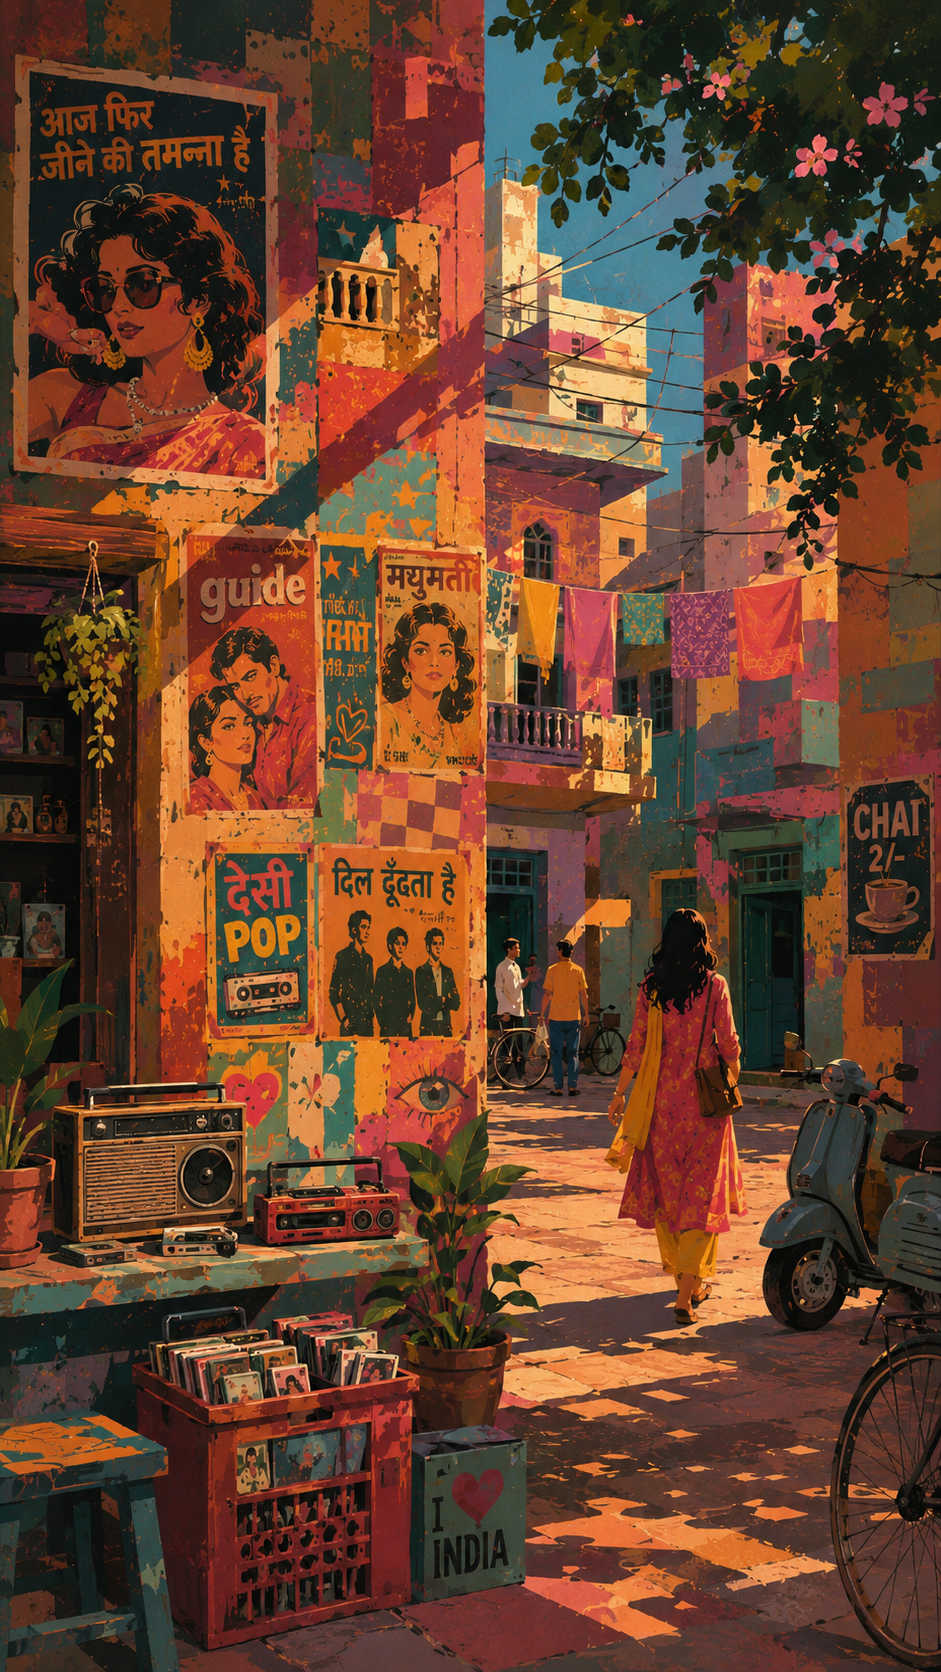
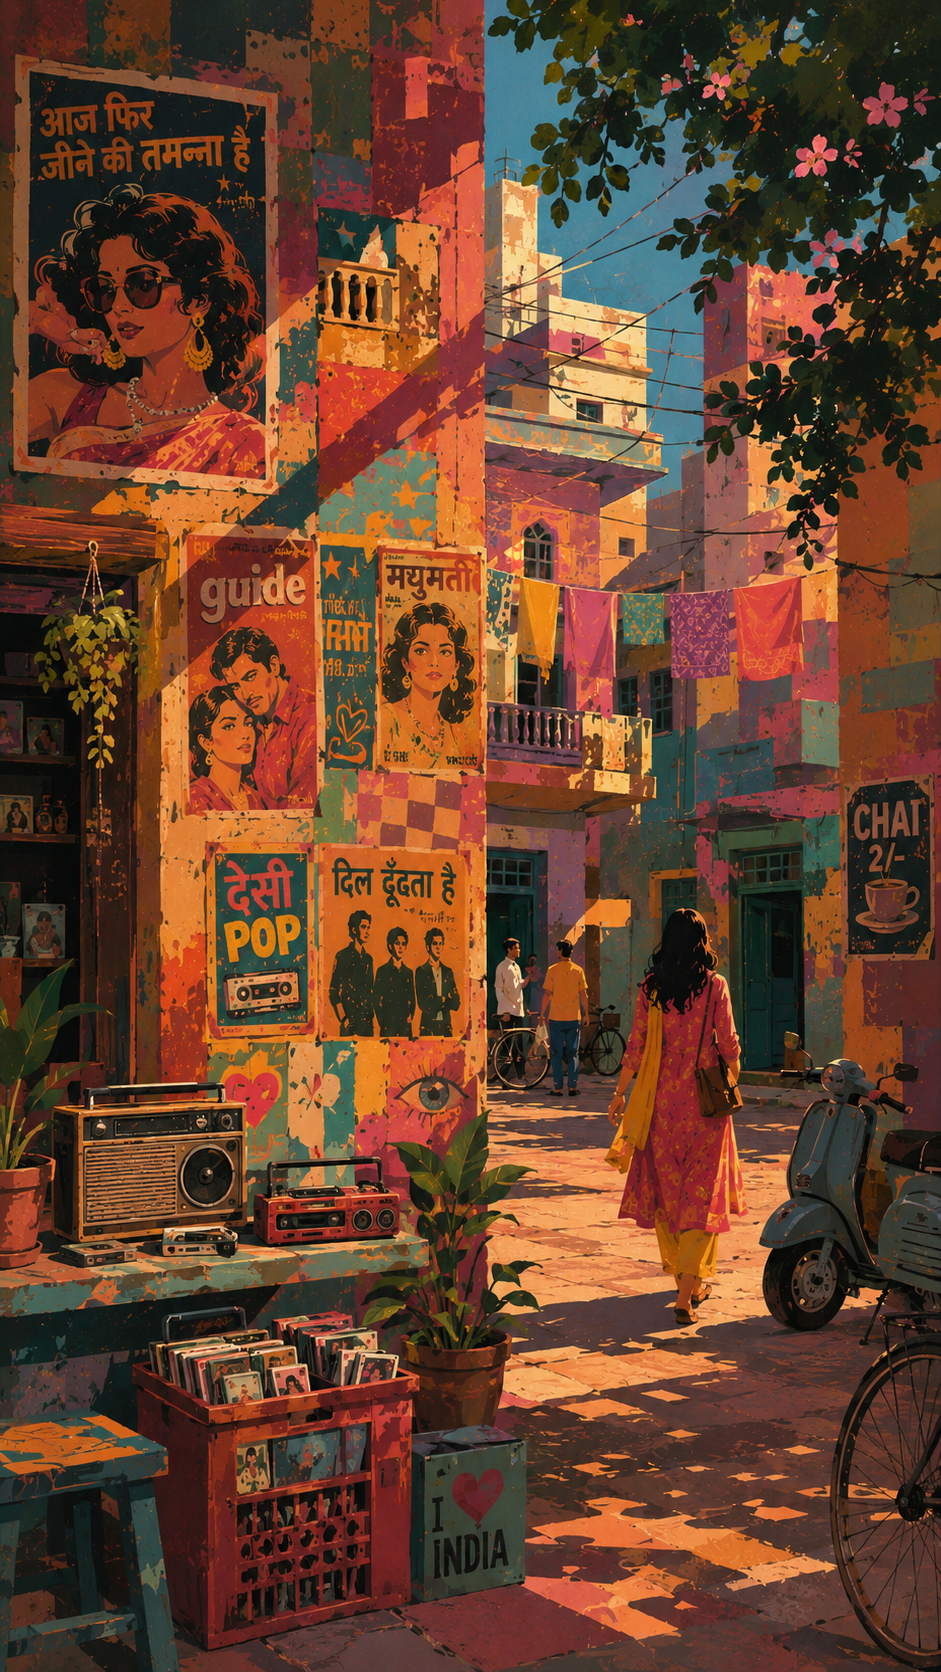
Update Shor & Studio

Changed region(s): [[0.4931, 0.2799, 0.6472, 0.3732]]

diff --git a/app/components/Player.tsx b/app/components/Player.tsx
@@ -33,21 +33,16 @@ const SHOR_TRACKS: Track[] = [
     title: "Sahiba",
     artist: "Shashwat Sachdev · Romy · Pawni Pandey",
   },
-  {
-    id: "7G5wpuR61ABrT7R1snos7C",
-    title: "Kalank – Title Track",
-    artist: "Pritam · Arijit Singh",
-  },
-  {
-    id: "6hVq4MGBhPIniEmpGbJIWR",
-    title: "Hardum Humdum",
-    artist: "Pritam · Arijit Singh",
-  },
  {
   id: "6U28uT3sr2xZlTniZEWiHI",
   title: "Chaudhary",
   artist: "Mame Khan",
   },
+{
+  id: "57y7bVzgdGtqyEBAOPyIzA",
+  title: "Pagla Hawar Badol Dine – Remix",
+  artist: "Shreya Ghoshal · Nachiketa Chakraborty",
+},
 {
   id: "3pRF060IEOI5XSQAvONgSt",
   title: "Chale Jaise Hawayein",
@@ -99,6 +94,11 @@ const SHOR_TRACKS: Track[] = [
     artist: "Silajit · Anupam Roy",
   },
   {
+    id: "6hVq4MGBhPIniEmpGbJIWR",
+    title: "Hardum Humdum",
+    artist: "Pritam · Arijit Singh",
+  },
+  {
     id: "2QophXhN2Ls2URfoPmiviC",
     title: "Kho Gaye",
     artist: "Taaruk Raina · Mismatched Cast",
@@ -109,15 +109,15 @@ const SHOR_TRACKS: Track[] = [
     artist: "Ajay Gogavale",
   },
   {
+  id: "648GXyKI62FhbeBq0levWr",
+  title: "Dil Kya Kare",
+  artist: "Adnan Sami",
+ },
+  {
     id: "4SrVkrpAyykhbVnATbfvPV",
     title: "Dhadak – Title Track",
     artist: "Ajay Gogavale · Shreya Ghoshal",
-  },
-  {
-    id: "3jxNbVmugKWFFc3YAVl0sD",
-    title: "Aabaad Barbaad",
-    artist: "Pritam · Arijit Singh",
-  },
+  },  
   {
     id: "78KKYDENYsw6jYfuEZsqJl",
     title: "Saathiya",
@@ -127,6 +127,16 @@ const SHOR_TRACKS: Track[] = [
     id: "3Bq7CnWgfvplEzGSVXUvOe",
     title: "Ay Hairathe",
     artist: "A.R. Rahman · Hariharan · Alka Yagnik",
+  },
+  {
+    id: "7G5wpuR61ABrT7R1snos7C",
+    title: "Kalank – Title Track",
+    artist: "Pritam · Arijit Singh",
+  },
+  {
+    id: "3jxNbVmugKWFFc3YAVl0sD",
+    title: "Aabaad Barbaad",
+    artist: "Pritam · Arijit Singh",
   },
 ];
 
@@ -155,6 +165,11 @@ const NAACHO_TRACKS: Track[] = [
     title: "One Two Three Four",
     artist: "Vishal-Shekhar · Vishal Dadlani · Hamsika Iyer",
   },
+  {
+  id: "63MOJ9xs6xl3PfjzmzRDKv",
+  title: "Chaar Shanivaar",
+  artist: "Vishal Dadlani · Armaan Malik · Amaal Mallik · Shabbir Ahmed",
+},
   {
     id: "0FOniWOTfxWVJHncU9Dvst",
     title: "Dreamum Wakeupum",

diff --git a/app/page.tsx b/app/page.tsx
@@ -25,13 +25,13 @@ export default function HomePage() {
       <section className="relative z-10 flex min-h-dvh flex-col items-center px-6 pb-44 pt-[54vh] text-center sm:pt-[62vh]">
         <div className="w-full max-w-2xl">
 
-          <p className="font-poppins mb-6 -mt-6 text-[13.5px] font-semibold leading-relaxed text-white/90 [text-shadow:0_2px_12px_rgba(0,0,0,0.9),0_0_4px_rgba(0,0,0,0.8)] max-sm:mt-0.5 max-sm:text-[14px] max-sm:text-white/85">
+          <p className="font-poppins mb-6 -mt-6 text-[13.5px] font-semibold leading-relaxed text-white/80 [text-shadow:0_2px_12px_rgba(0,0,0,0.9),0_0_4px_rgba(0,0,0,0.8)] max-sm:mt-0.5 max-sm:text-[14px] max-sm:text-white/85">
   Welcome to Aishee’s multiverse. Mood badlo, mahol badlo, playlist badlo —
   and most importantly, bas enjoy karo.
 </p>
 
 {/* PICK YOUR SHOR */}
-          <p className="font-poppins mb-5 mt-4 text-[12px] font-bold uppercase tracking-[0.18em] text-white/90 sm:mt-10.5 max-sm:text-white/85">
+          <p className="font-poppins mb-5 mt-4 text-[12px] font-bold uppercase tracking-[0.18em] text-white/80 sm:mt-10.5 max-sm:text-white/85">
             Pick your shor
           </p>
 

diff --git a/app/components/SiteChrome.tsx b/app/components/SiteChrome.tsx
@@ -90,7 +90,7 @@ export function SiteChrome({
     ? "max-sm:top-[9%]"
     : room
       ? "max-sm:top-[12%]"
-      : "max-sm:top-[8%]"
+      : "max-sm:top-[7%]"
 }`}
 >
   <Image
@@ -102,7 +102,7 @@ export function SiteChrome({
     className={
   room
     ? "h-auto w-[min(72vw,300px)] brightness-95 drop-shadow-[0_8px_22px_rgba(0,0,0,.5)] sm:w-[min(34vw,320px)]"
-    : "h-auto w-[min(33vw,310px)] max-sm:w-[min(175vw,495px)] brightness-90 max-sm:brightness-95 drop-shadow-[0_8px_22px_rgba(0,0,0,.5)]"
+    : "h-auto w-[min(33vw,310px)] max-sm:w-[min(199vw,535px)] brightness-90 max-sm:brightness-98 drop-shadow-[0_8px_22px_rgba(0,0,0,.5)]"
 }
   />
 </div>
